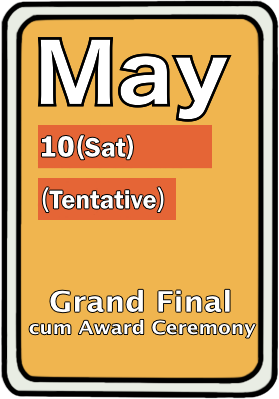
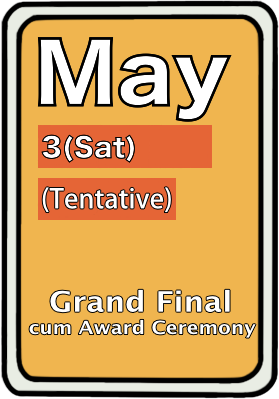
revert to 3 May

Changed region(s): [[0.172, 0.4511, 0.6308, 0.5414], [0.1434, 0.3308, 0.4875, 0.4211]]

diff --git a/course-map-chinese-simplified.html b/course-map-chinese-simplified.html
@@ -128,7 +128,7 @@
                                         <td>准决赛</td>
                                     </tr>
                                     <tr>
-                                        <td>2025年5月10日（星期六）（暂定）</td>
+                                        <td>2025年5月3日（星期六）（暂定）</td>
                                         <td>总决赛暨颁奖典礼</td>
                                     </tr>
                                 </tbody>

diff --git a/course-map-english.html b/course-map-english.html
@@ -128,7 +128,7 @@
                                         <td>Semi-Final</td>
                                     </tr>
                                     <tr>
-                                        <td>10 May 2025 (Saturday) (Tentative)</td>
+                                        <td>3 May 2025 (Saturday) (Tentative)</td>
                                         <td>Grand Final cum Award Ceremony</td>
                                     </tr>
                                 </tbody>

diff --git a/course-map.html b/course-map.html
@@ -128,7 +128,7 @@
                                     <td>準決賽</td>
                                 </tr>
                                 <tr>
-                                    <td>2025年5月10日（星期六）（暫定）</td>
+                                    <td>2025年5月3日（星期六）（暫定）</td>
                                     <td>總決賽暨頒獎典禮</td>
                                 </tr>
                             </tbody>
